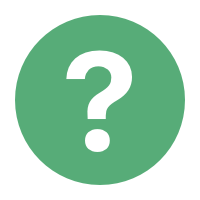
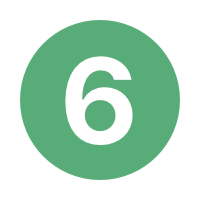
Add files via upload

Changed region(s): [[0.06, 0.06, 0.93, 0.93], [0.3, 0.24, 0.69, 0.78]]

diff --git a/index.html b/index.html
@@ -1,1 +1,83 @@
-<!doctype html><html lang="en"><head><meta charset="utf-8"/><link rel="icon" href="/favicon.png"/><meta name="viewport" content="width=device-width,initial-scale=1"/><meta name="theme-color" content="#57ac57"/><link rel="apple-touch-icon" href="/icon.png"/><link rel="manifest" href="/manifest.json"/><title>Missing 11 - Daily football wordle game</title><meta name="description" content="Can you name all Missing 11 players that started this football match? A new lineup is available each day in this football wordle game."><meta property="og:url" content="https://www.missing11.com"><meta property="og:type" content="website"><meta property="og:title" content="Missing 11 - Daily football wordle game"><meta property="og:image" content="https://www.missing11.com/social-icon.png?v=1"><meta property="og:description" content="Can you name all Missing 11 players that started this football match? A new lineup is available each day in this football wordle game."><script>!function(e,t,a,n,g){e[n]=e[n]||[],e[n].push({"gtm.start":(new Date).getTime(),event:"gtm.js"});var m=t.getElementsByTagName(a)[0],r=t.createElement(a);r.async=!0,r.src="https://www.googletagmanager.com/gtm.js?id=GTM-5RZWT5M",m.parentNode.insertBefore(r,m)}(window,document,"script","dataLayer")</script><script async src="https://www.googletagmanager.com/gtag/js?id=G-GZWHB26SFV"></script><script>function gtag(){dataLayer.push(arguments)}window.dataLayer=window.dataLayer||[],gtag("js",new Date),gtag("config","G-GZWHB26SFV")</script><script defer="defer" src="./static/js/main.14eeacf3.js"></script><link href="./static/css/main.268cf2c3.css" rel="stylesheet"></head><body><noscript><iframe src="https://www.googletagmanager.com/ns.html?id=GTM-5RZWT5M" height="0" width="0" style="display:none;visibility:hidden"></iframe></noscript><noscript>Missing 11 is a football wordle style starting lineup guessing game. Please enable javascript to play.</noscript><div id="root"></div></body></html>
+<!DOCTYPE html>
+<html lang="en">
+  <head>
+    <meta charset="utf-8" />
+    <link rel="icon" href="%PUBLIC_URL%/favicon.ico" />
+    <meta name="viewport" content="width=device-width, initial-scale=1" />
+    <meta name="theme-color" content="#57ac57" />
+    <meta name="description" content="%REACT_APP_GAME_DESCRIPTION%" />
+    <link rel="apple-touch-icon" href="%PUBLIC_URL%/logo192.png" />
+    <!-- FB Meta Tags -->
+    <meta property="og:url" content="https://www.footbl6.com" />
+    <meta property="og:type" content="website" />
+    <meta property="og:title" content="%REACT_APP_SEO_TITLE%" />
+    <meta
+      property="og:image"
+      content="https://www.footbl6.com/social-icon.png?v=1"
+    />
+    <meta property="og:description" content="%REACT_APP_GAME_DESCRIPTION%" />
+    <!--
+      manifest.json provides metadata used when your web app is installed on a
+      user's mobile device or desktop. See https://developers.google.com/web/fundamentals/web-app-manifest/
+    -->
+    <link rel="manifest" href="%PUBLIC_URL%/manifest.json" />
+    <!--
+      Notice the use of %PUBLIC_URL% in the tags above.
+      It will be replaced with the URL of the `public` folder during the build.
+      Only files inside the `public` folder can be referenced from the HTML.
+
+      Unlike "/favicon.ico" or "favicon.ico", "%PUBLIC_URL%/favicon.ico" will
+      work correctly both with client-side routing and a non-root public URL.
+      Learn how to configure a non-root public URL by running `npm run build`.
+    -->
+    <title>%REACT_APP_SEO_TITLE%</title>
+
+    <% if (process.env.NODE_ENV === 'production' &&
+    process.env.REACT_APP_GOOGLE_MEASUREMENT_ID != null) { %>
+    <!-- Google Tag Manager -->
+    <script>
+      ;(function (w, d, s, l, i) {
+        w[l] = w[l] || []
+        w[l].push({ 'gtm.start': new Date().getTime(), event: 'gtm.js' })
+        var f = d.getElementsByTagName(s)[0],
+          j = d.createElement(s),
+          dl = l != 'dataLayer' ? '&l=' + l : ''
+        j.async = true
+        j.src = 'https://www.googletagmanager.com/gtm.js?id=' + i + dl
+        f.parentNode.insertBefore(j, f)
+      })(window, document, 'script', 'dataLayer', 'GTM-TXVWQH2')
+    </script>
+    <!-- End Google Tag Manager -->
+    <script
+      async
+      src="https://www.googletagmanager.com/gtag/js?id=G-PE86JV92P3"
+    ></script>
+    <script>
+      window.dataLayer = window.dataLayer || []
+      function gtag() {
+        dataLayer.push(arguments)
+      }
+      gtag('js', new Date())
+
+      gtag('config', 'G-PE86JV92P3')
+    </script>
+    <% } %>
+  </head>
+  <body>
+    <noscript
+      >Footbl 6 is a football wordle style guessing game. Please enable
+      javascript to play.</noscript
+    >
+    <div id="root"></div>
+    <!--
+      This HTML file is a template.
+      If you open it directly in the browser, you will see an empty page.
+
+      You can add webfonts, meta tags, or analytics to this file.
+      The build step will place the bundled scripts into the <body> tag.
+
+      To begin the development, run `npm start` or `yarn start`.
+      To create a production bundle, use `npm run build` or `yarn build`.
+    -->
+  </body>
+</html>

diff --git a/privacy-policy.html b/privacy-policy.html
@@ -34,7 +34,7 @@
   <li>
     <p>
       <strong>Company</strong> (referred to as either "the Company", "We",
-      "Us" or "Our" in this Agreement) refers to Footbl 5.
+      "Us" or "Our" in this Agreement) refers to Footbl 6.
     </p>
   </li>
   <li>
@@ -79,8 +79,8 @@
   </li>
   <li>
     <p>
-      <strong>Website</strong> refers to Footbl 5, accessible from
-      <a href="https://footbl5.com" rel="external nofollow noopener" target="_blank">https://footbl5.com</a>
+      <strong>Website</strong> refers to Footbl 6, accessible from
+      <a href="https://footbl6.com" rel="external nofollow noopener" target="_blank">https://footbl6.com</a>
     </p>
   </li>
   <li>
